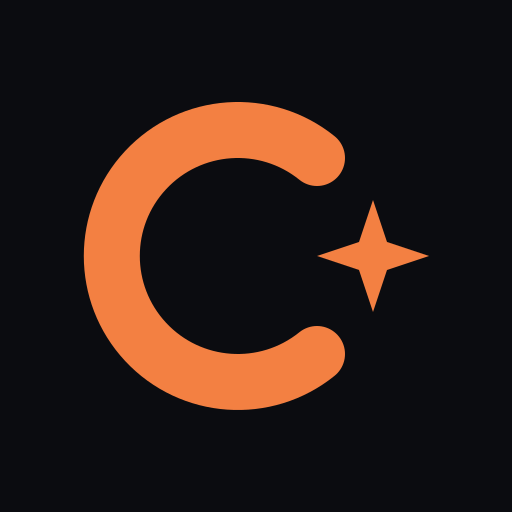
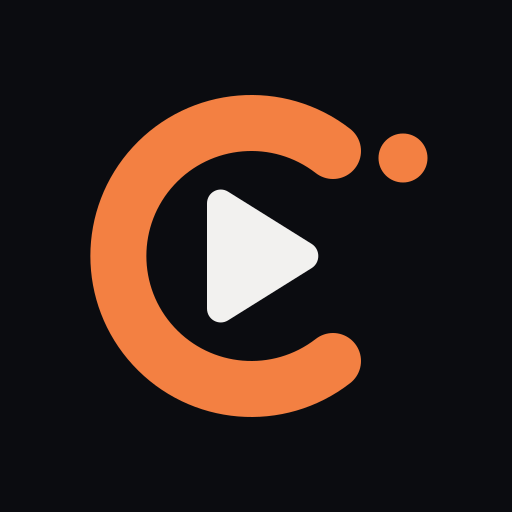
Integrate the Ember Loop visual identity

diff --git a/DESIGN.md b/DESIGN.md
@@ -70,8 +70,22 @@ separate grey tokens.
   via `.font-display`; card titles `text-sm font-semibold leading-tight`; body default; subtitles
   / secondary `text-sm` at reduced opacity; badges and chips `text-xs`-ish via `badge-sm`; menu
   section headers `menu-title`.
-- **Wordmark:** `CIN` + `DER`, the second half in `text-primary` (ember), `.font-display`,
-  `tracking-wide`, uppercase.
+- **Wordmark:** uppercase `CINDER` in `.font-display`, bold with generous tracking. The word stays
+  in `base-content`; the adjacent Ember Loop mark carries the accent.
+
+## Brand mark
+
+The **Ember Loop** is an open ember-orange `C` around a centered play cue, with one detached round
+ember in the opening. The loop represents Cinder's request-to-library pipeline; the play cue names
+the media category; the single ember gives the otherwise precise geometry warmth. It is an
+evolution of Cinder's original arc-C and spark, not a separate visual language.
+
+- `priv/static/images/logo.svg` is the transparent mark for light surfaces.
+- `priv/static/images/logo-reverse.svg` is the transparent mark for dark surfaces.
+- `priv/static/images/icon.svg` is the source of truth for the dark app/PWA icon and its raster
+  exports.
+- Keep exactly one round ember. Do not replace it with a star, add particles, animate the static
+  silhouette, or apply gradients/glow.
 
 ## Radii / border / depth
 
@@ -154,7 +168,7 @@ Functional only; no bounce, no spring, no decorative motion.
 - **App shell (signed in):** daisyUI `drawer lg:drawer-open`. On `lg+` a persistent left sidebar
   (`aside`, `w-64`, `bg-base-200`, `border-r border-base-300/60`); below `lg` it collapses behind
   a top `navbar` (`bg-base-100`, hamburger + wordmark) with an overlay drawer.
-- **Sidebar:** brand wordmark; a `menu` grouped by `menu-title` sections — **Everyone** (Discover,
+- **Sidebar:** Ember Loop mark + wordmark; a `menu` grouped by `menu-title` sections — **Everyone** (Discover,
   My requests) and, role-gated, **Admin** (Dashboard, Requests, Library, Activity, Calendar,
   Settings, Users). Active item = `menu-active font-medium text-primary` + `aria-current="page"`.
   Footer pins the theme toggle + locale switcher (a `join` of `btn-xs` locale links), the current

diff --git a/README.md b/README.md
@@ -1,7 +1,11 @@
-# Cinder
+<p align="center">
+  <img src="docs/images/cinder-header.svg" alt="Cinder — self-hosted media management for one household" width="100%" />
+</p>
 
-[![CI](https://github.com/simonbrunou/cinder/actions/workflows/ci.yml/badge.svg)](https://github.com/simonbrunou/cinder/actions/workflows/ci.yml)
-[![License: GPL v3](https://img.shields.io/badge/License-GPLv3-blue.svg)](LICENSE)
+<p align="center">
+  <a href="https://github.com/simonbrunou/cinder/actions/workflows/ci.yml"><img src="https://github.com/simonbrunou/cinder/actions/workflows/ci.yml/badge.svg" alt="CI" /></a>
+  <a href="LICENSE"><img src="https://img.shields.io/badge/License-GPLv3-blue.svg" alt="License: GPL v3" /></a>
+</p>
 
 Cinder is a single-household, self-hosted replacement for the **Sonarr + Radarr + Seerr** loop:
 request a movie or TV show → find the best release → download it → import it into **Jellyfin or
